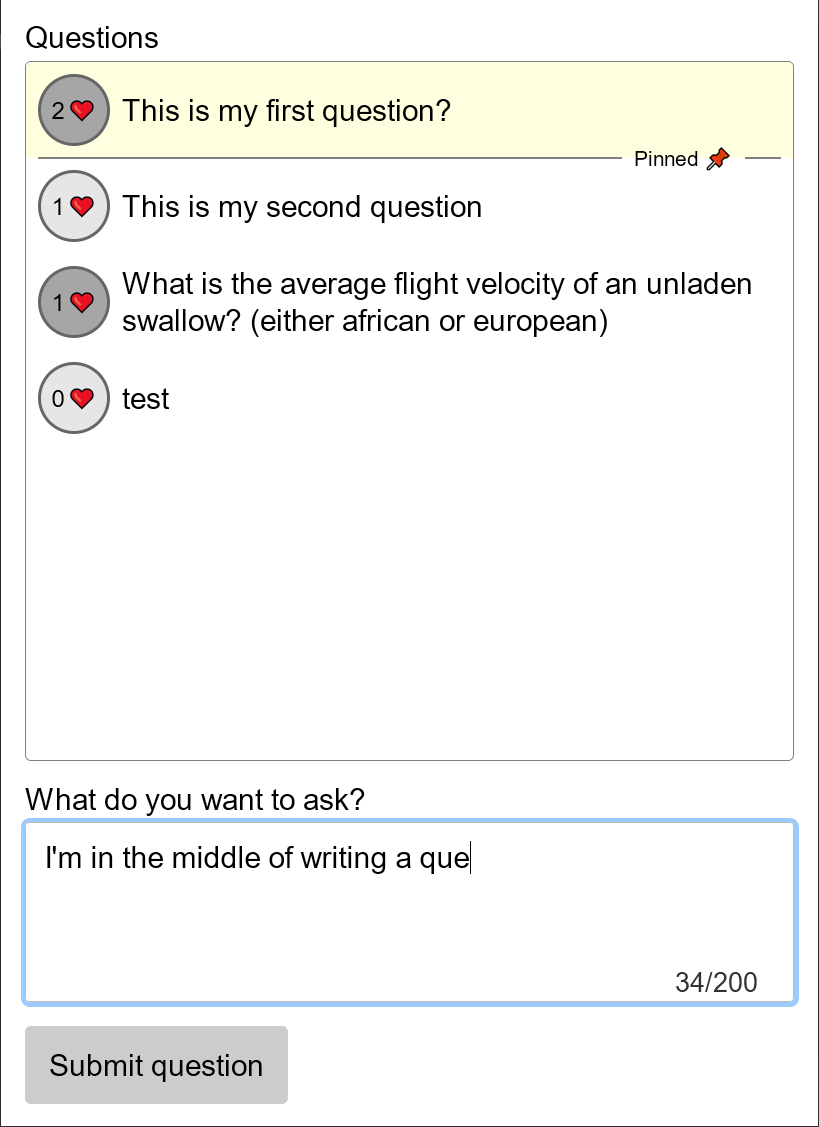
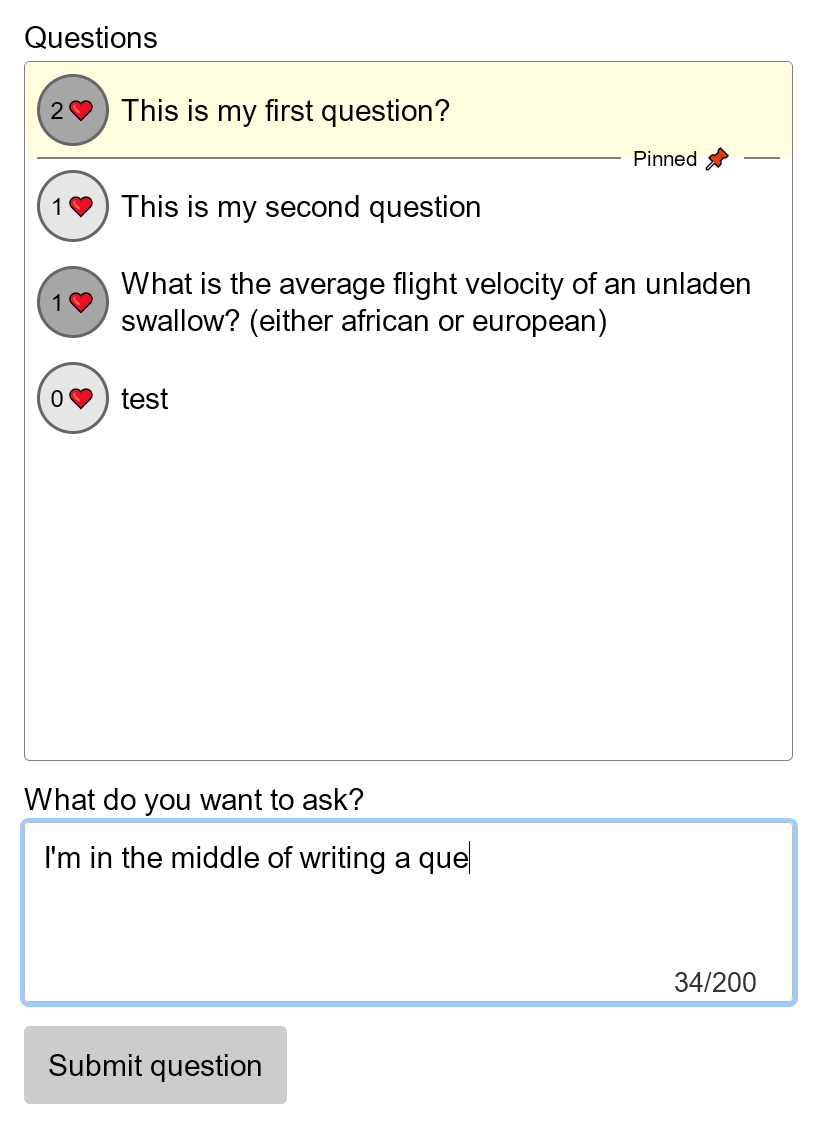
Remove border from screenshot

diff --git a/README.md b/README.md
@@ -1,6 +1,6 @@
 # elm-qna
 
-<img src="https://raw.githubusercontent.com/MartinSStewart/elm-qna/master/qna-screenshot.png" alt="Q&A screenshot" width="410" height="563">
+<img src="https://raw.githubusercontent.com/MartinSStewart/elm-qna/master/qna-screenshot.png" alt="Q&A screenshot" width="409" height="563">
 
 https://question-and-answer.lamdera.app
 
